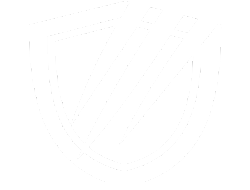
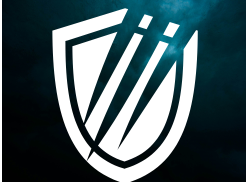
新卡: 蓄力揮刀 擦刀

diff --git a/BasicMod-master/src/main/java/dbdmod/cards/attack/ChargedSlash.java b/BasicMod-master/src/main/java/dbdmod/cards/attack/ChargedSlash.java
@@ -1,0 +1,46 @@
+package dbdmod.cards.attack;
+
+import com.megacrit.cardcrawl.actions.AbstractGameAction;
+import com.megacrit.cardcrawl.actions.common.DamageAction;
+import com.megacrit.cardcrawl.actions.common.MakeTempCardInHandAction;
+import com.megacrit.cardcrawl.cards.AbstractCard;
+import com.megacrit.cardcrawl.cards.DamageInfo;
+import com.megacrit.cardcrawl.characters.AbstractPlayer;
+import com.megacrit.cardcrawl.monsters.AbstractMonster;
+import dbdmod.cards.BaseCard;
+import dbdmod.cards.skill.BladeSwipe;
+import dbdmod.character.MyCharacter;
+import dbdmod.util.CardStats;
+
+public class ChargedSlash extends BaseCard {
+    public static final String ID = makeID(ChargedSlash.class.getSimpleName());
+    private static final CardStats info = new CardStats(
+            MyCharacter.Meta.CARD_COLOR, //The card color. If you're making your own character, it'll look something like this. Otherwise, it'll be CardColor.RED or similar for a basegame character color.
+            CardType.ATTACK, //The type. ATTACK/SKILL/POWER/CURSE/STATUS
+            CardRarity.COMMON, //Rarity. BASIC is for starting cards, then there's COMMON/UNCOMMON/RARE, and then SPECIAL and CURSE. SPECIAL is for cards you only get from events. Curse is for curses, except for special curses like Curse of the Bell and Necronomicurse.
+            CardTarget.ENEMY, //The target. Single target is ENEMY, all enemies is ALL_ENEMY. Look at cards similar to what you want to see what to use.
+            1 //The card's base cost. -1 is X cost, -2 is no cost for unplayable cards like curses, or Reflex.
+    );
+
+    private static final int DAMAGE = 14;
+    private static final int UPG_DAMAGE = 4;
+
+    public ChargedSlash() {
+        super(ID, info); //Pass the required information to the BaseCard constructor.
+
+        setDamage(DAMAGE, UPG_DAMAGE); //Sets the card's damage and how much it changes when upgraded.
+        this.exhaust = true;
+        this.cardsToPreview = new BladeSwipe();
+    }
+
+    @Override
+    public void use(AbstractPlayer p, AbstractMonster m) {
+        addToBot(new DamageAction(m, new DamageInfo(p, damage, DamageInfo.DamageType.NORMAL), AbstractGameAction.AttackEffect.SLASH_HEAVY));
+        addToBot(new MakeTempCardInHandAction(new BladeSwipe(), 1));
+    }
+
+    @Override
+    public AbstractCard makeCopy() { //Optional
+        return new ChargedSlash();
+    }
+}

diff --git a/BasicMod-master/src/main/java/dbdmod/cards/skill/BladeSwipe.java b/BasicMod-master/src/main/java/dbdmod/cards/skill/BladeSwipe.java
@@ -1,0 +1,49 @@
+package dbdmod.cards.skill;
+
+import basemod.patches.com.megacrit.cardcrawl.screens.compendium.CardLibraryScreen.NoCompendium;
+import com.megacrit.cardcrawl.actions.common.MakeTempCardInHandAction;
+import com.megacrit.cardcrawl.cards.AbstractCard;
+import com.megacrit.cardcrawl.characters.AbstractPlayer;
+import com.megacrit.cardcrawl.monsters.AbstractMonster;
+import dbdmod.cards.BaseCard;
+import dbdmod.cards.attack.ChargedSlash;
+import dbdmod.character.MyCharacter;
+import dbdmod.util.CardStats;
+
+@NoCompendium
+public class BladeSwipe extends BaseCard {
+    public static final String ID = makeID(BladeSwipe.class.getSimpleName());
+    private static final CardStats info = new CardStats(
+            MyCharacter.Meta.CARD_COLOR, //The card color. If you're making your own character, it'll look something like this. Otherwise, it'll be CardColor.RED or similar for a basegame character color.
+            CardType.SKILL, //The type. ATTACK/SKILL/POWER/CURSE/STATUS
+            CardRarity.SPECIAL, //Rarity. BASIC is for starting cards, then there's COMMON/UNCOMMON/RARE, and then SPECIAL and CURSE. SPECIAL is for cards you only get from events. Curse is for curses, except for special curses like Curse of the Bell and Necronomicurse.
+            CardTarget.NONE, //The target. Single target is ENEMY, all enemies is ALL_ENEMY. Look at cards similar to what you want to see what to use.
+            1 //The card's base cost. -1 is X cost, -2 is no cost for unplayable cards like curses, or Reflex.
+    );
+
+    public BladeSwipe() {
+        super(ID, info); //Pass the required information to the BaseCard constructor.
+
+        this.exhaust = true;
+    }
+
+    @Override
+    public void use(AbstractPlayer p, AbstractMonster m) {
+        addToBot(new MakeTempCardInHandAction(new ChargedSlash(), 1));
+    }
+
+    @Override
+    public void upgrade() {
+        if (!this.upgraded) {
+            this.upgradeName();
+            this.upgradeBaseCost(0);
+        }
+
+    }
+
+
+    @Override
+    public AbstractCard makeCopy() { //Optional
+        return new BladeSwipe();
+    }
+}

diff --git a/BasicMod-master/src/main/java/dbdmod/character/MyCharacter.java b/BasicMod-master/src/main/java/dbdmod/character/MyCharacter.java
@@ -21,6 +21,7 @@ import com.megacrit.cardcrawl.helpers.ScreenShake;
 import com.megacrit.cardcrawl.relics.BurningBlood;
 import com.megacrit.cardcrawl.screens.CharSelectInfo;
 import dbdmod.cards.attack.Strike;
+import dbdmod.cards.attack.ChargedSlash;
 import dbdmod.cards.skill.Defend;
 
 import java.util.ArrayList;
@@ -145,6 +146,7 @@ public class MyCharacter extends CustomPlayer {
         for (int i = 0; i < 4; i++) {
             retVal.add(Defend.ID);
         }
+        retVal.add(ChargedSlash.ID);
 
         return retVal;
     }
